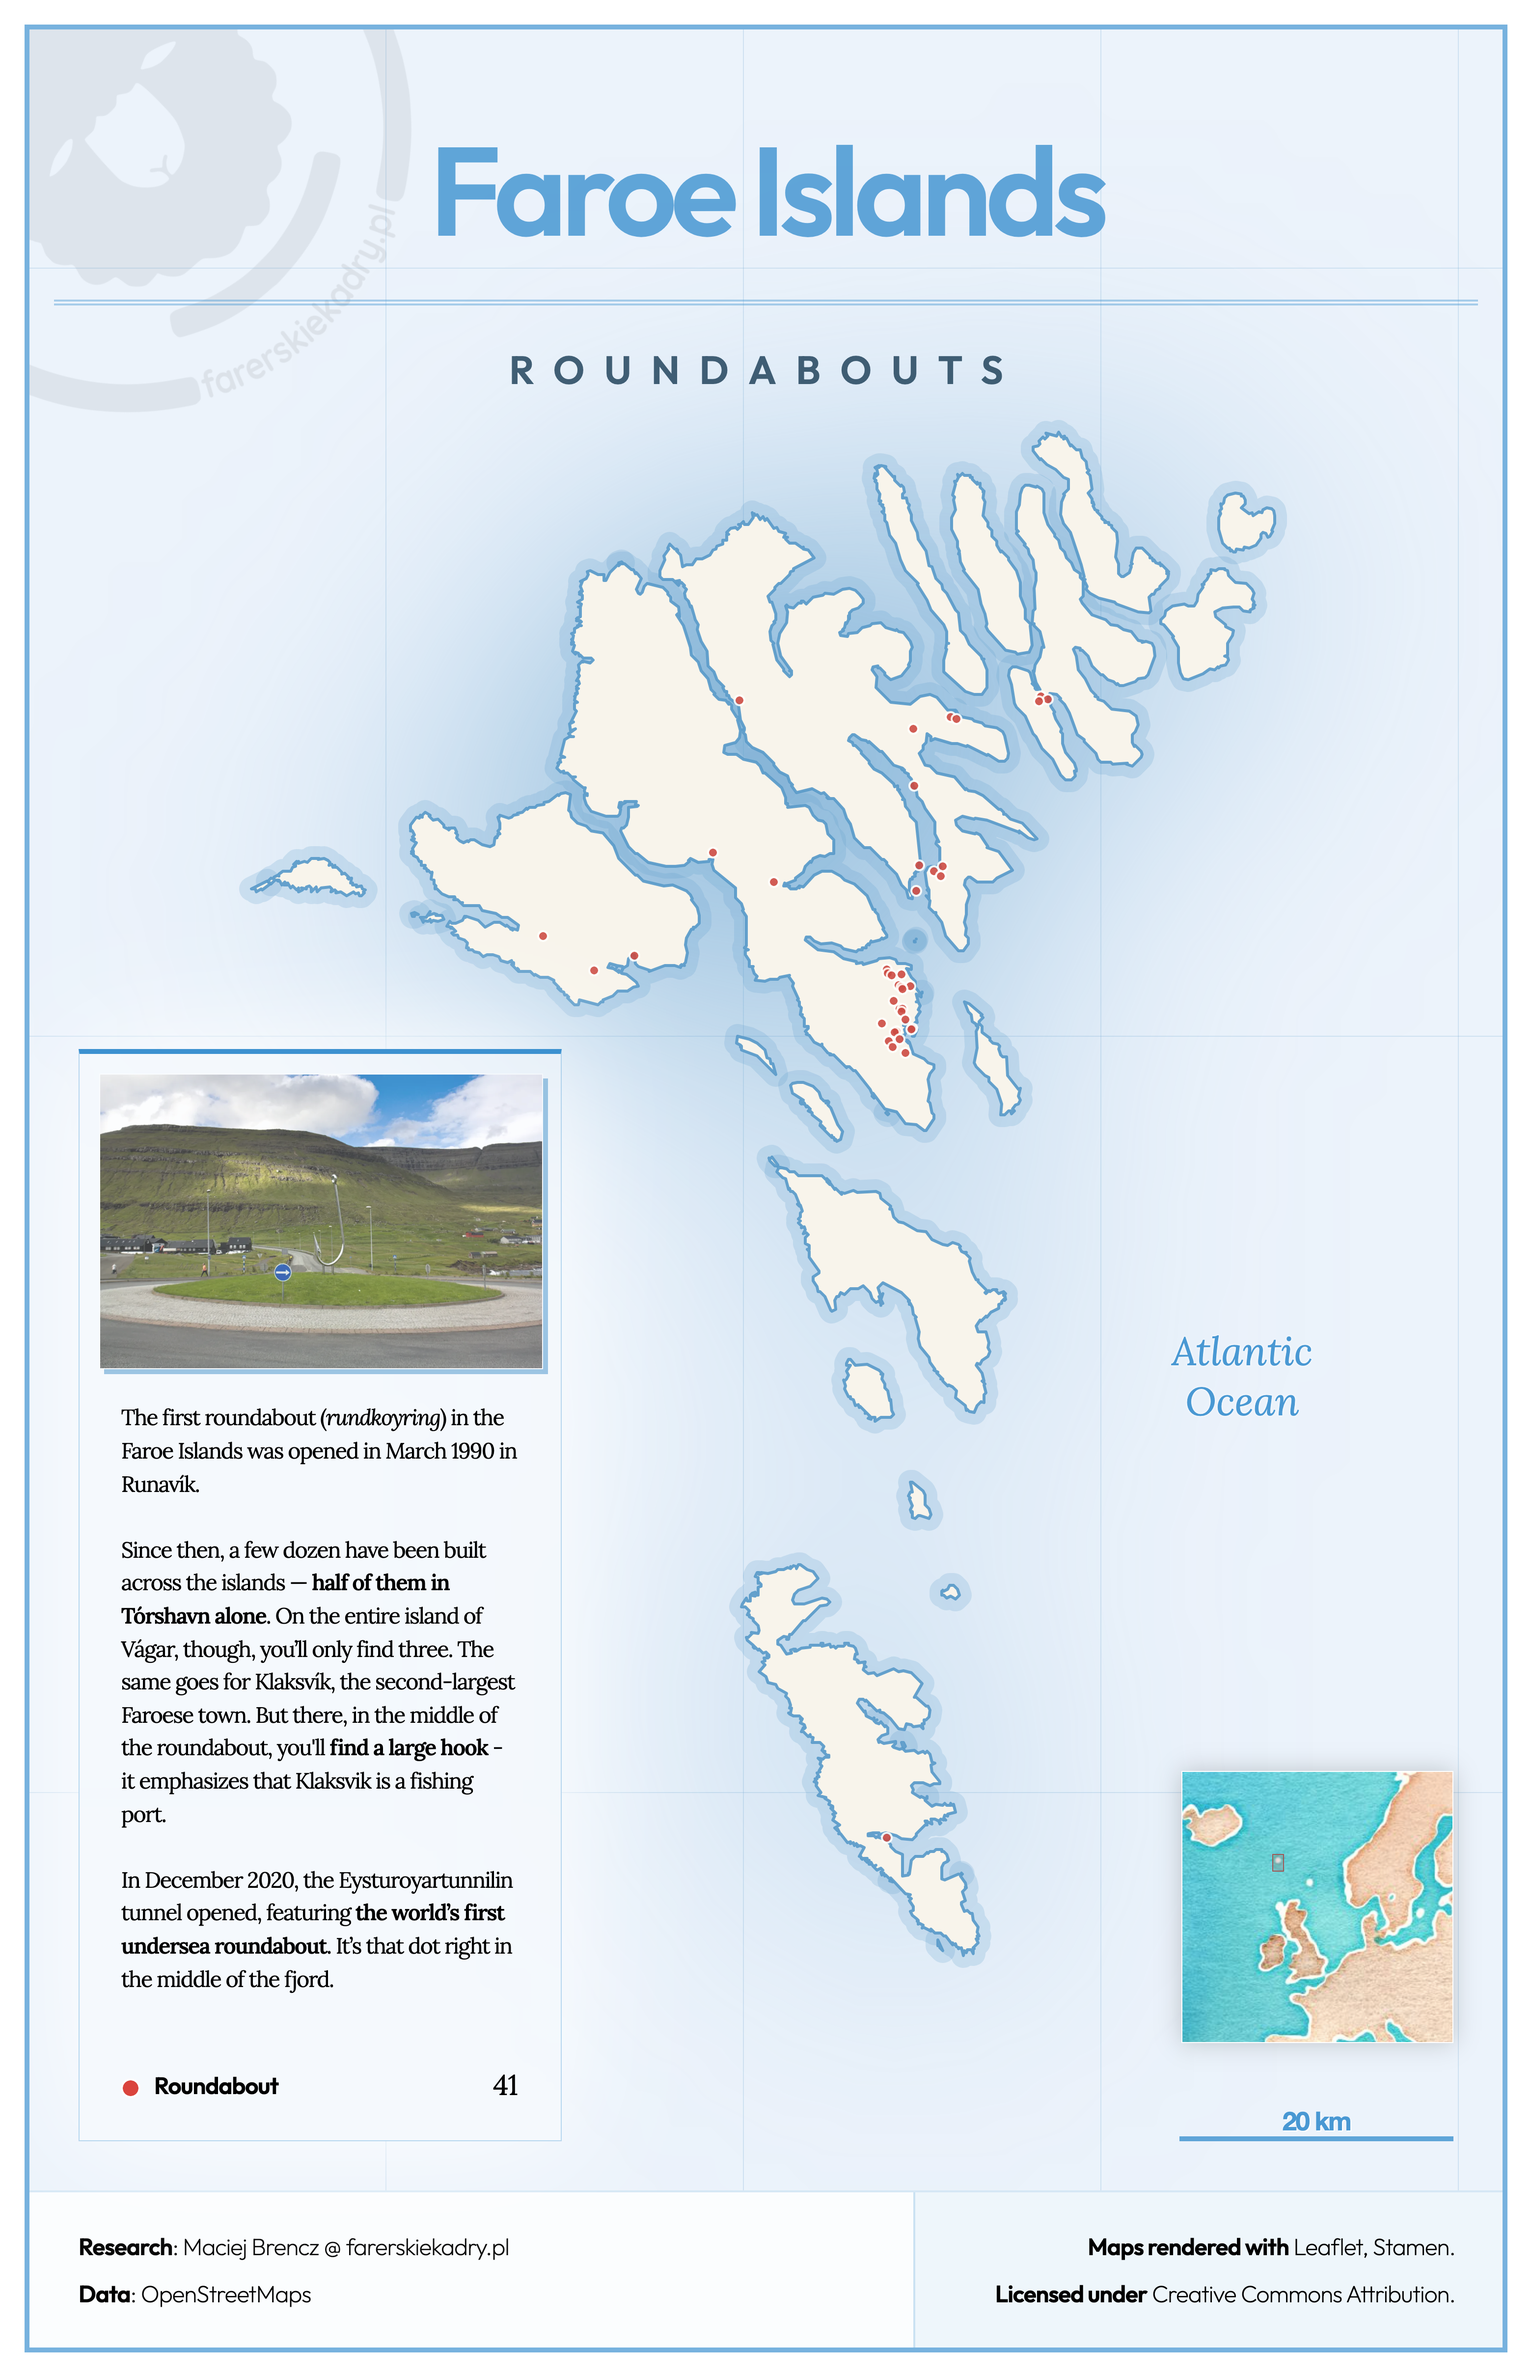
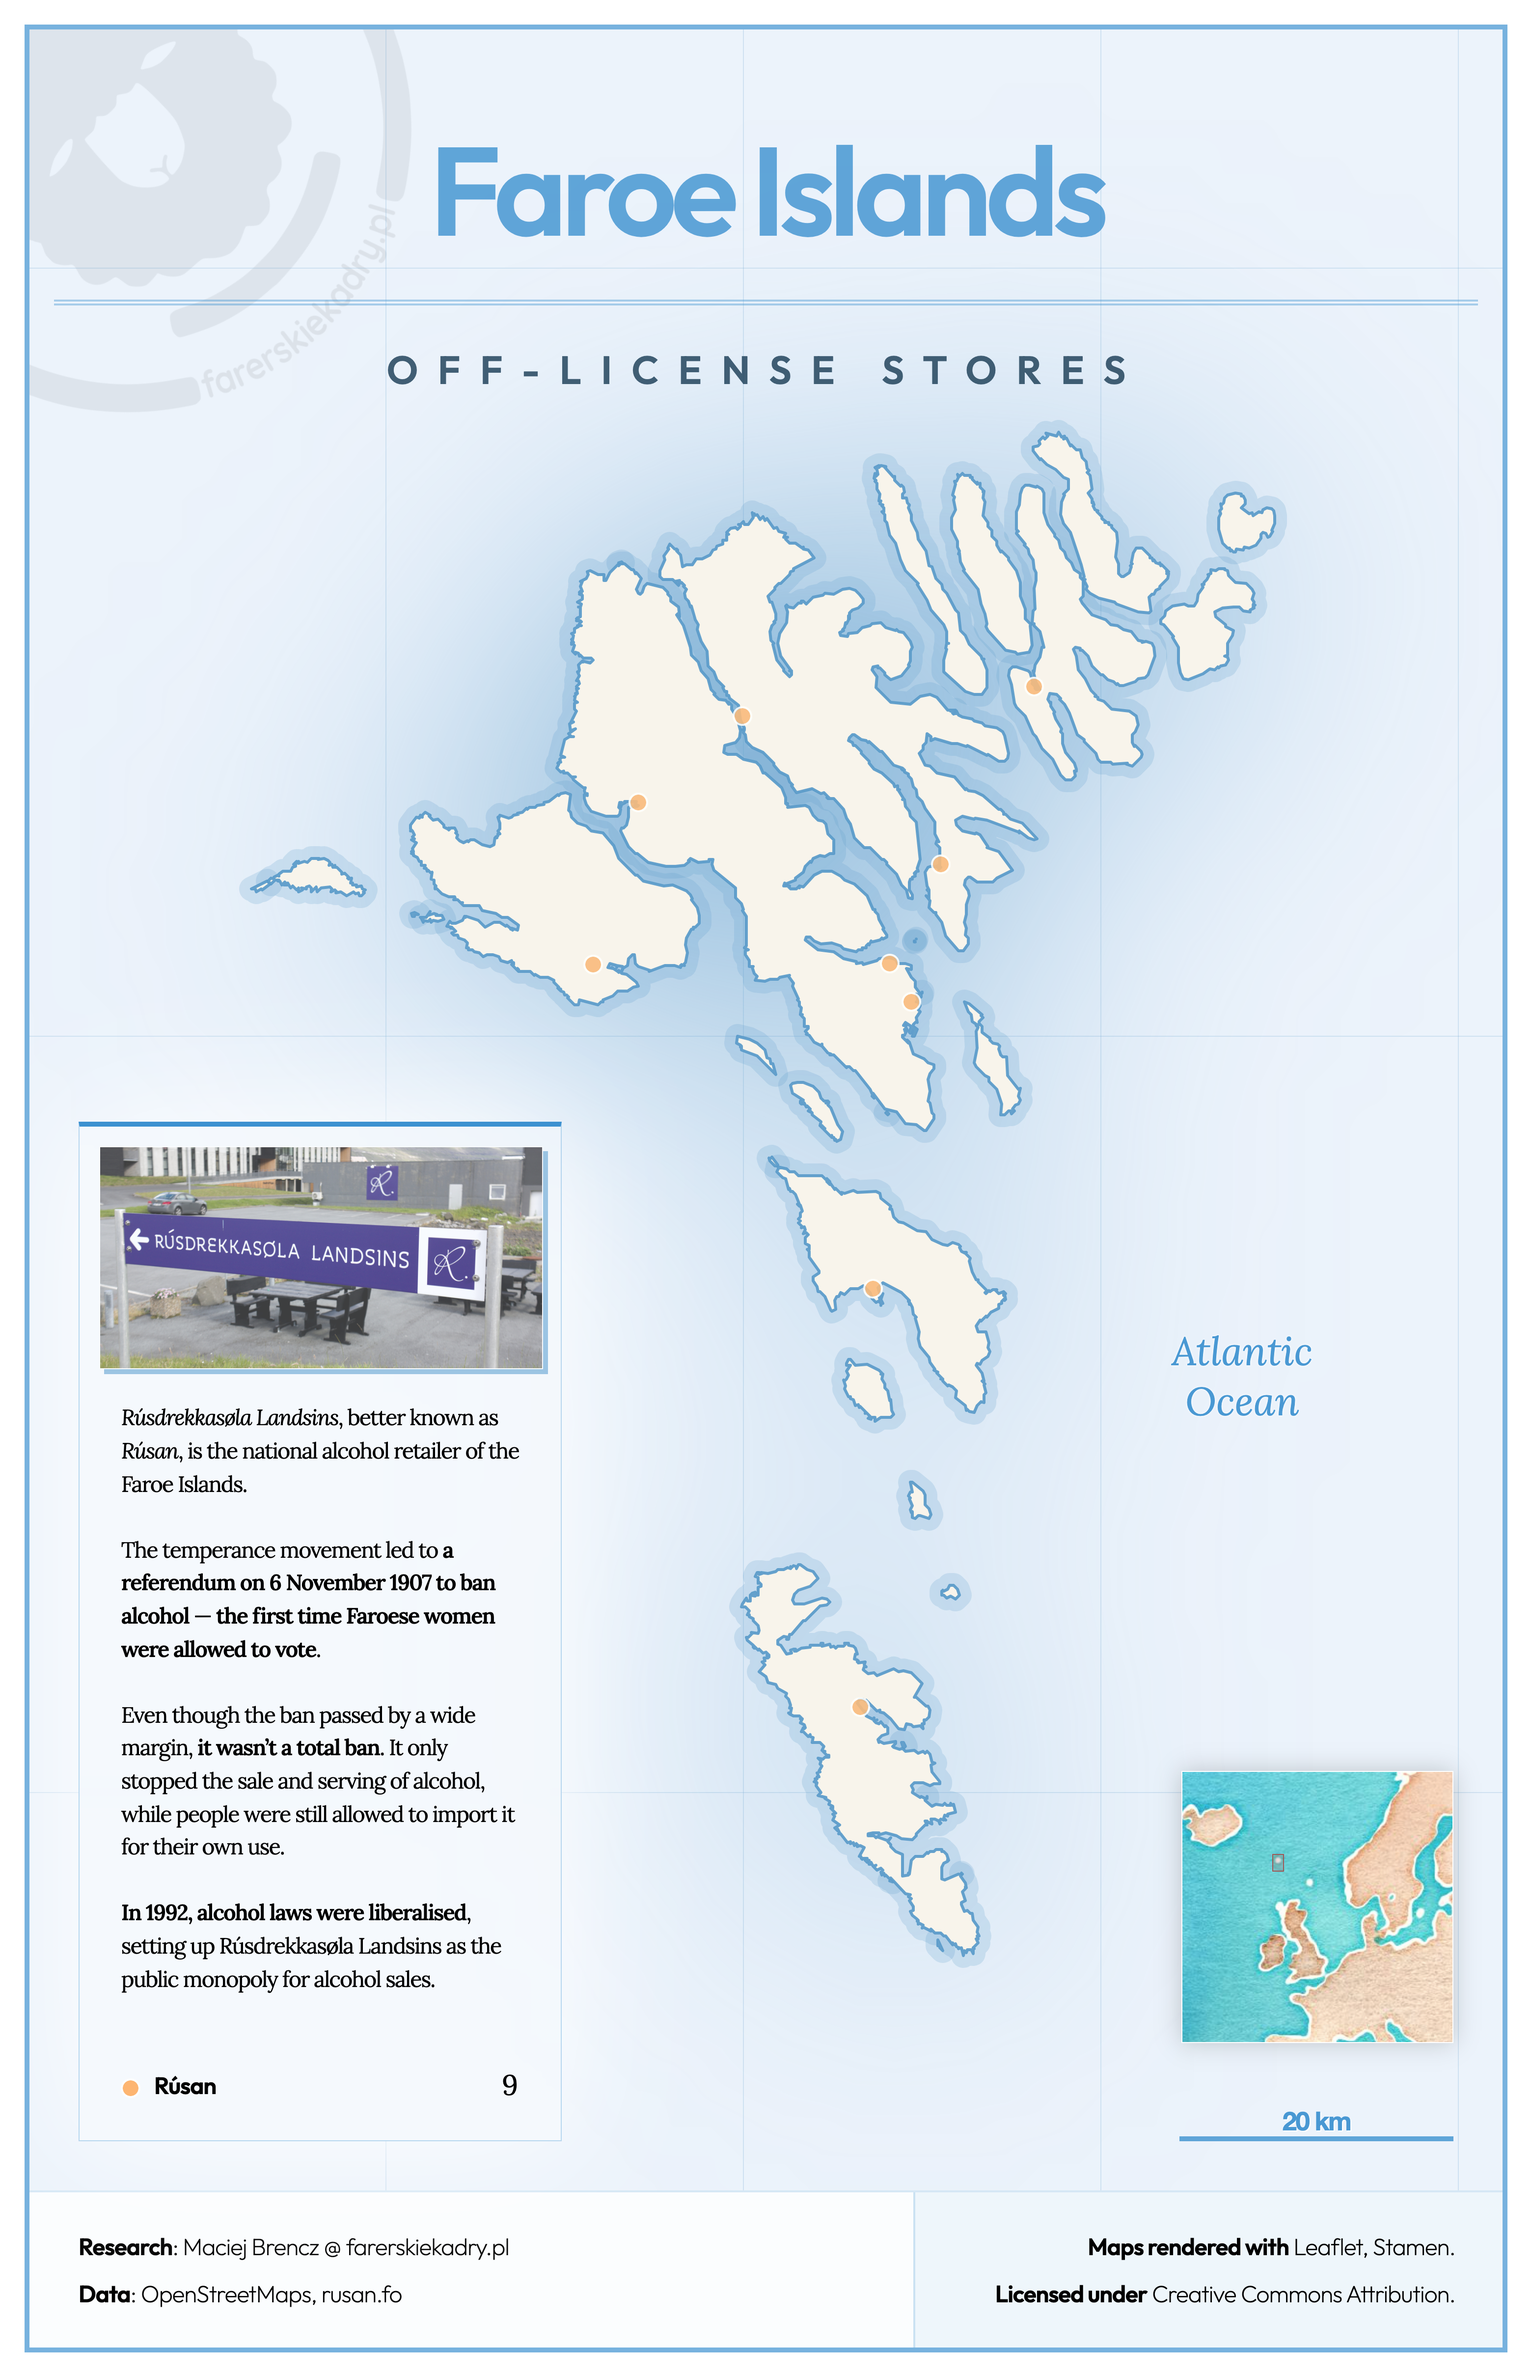
Faroe: Off-license stores

diff --git a/faroe.html b/faroe.html
@@ -24,25 +24,28 @@
 				<h1 lang="en">Faroe Islands</h1>
 				<h1 lang="pl">Wyspy Owcze</h1>
 
-				<h2 lang="en">Roundabouts</h2>
-				<h2 lang="pl">Ronda</h2>
+				<h2 lang="en">Off-license stores</h2>
+				<h2 lang="pl">Sklepy monopolowe</h2>
 
 				<legend>
-					<img src="https://i0.wp.com/farerskiekadry.pl/wp-content/uploads/2024/06/IMG_4117-scaled.jpg?w=1258&quality=89&ssl=1">
+					<img src="https://farerskiekadry.pl/wp-content/uploads/2026/01/Rusan_Klaksvik.jpg">
 					<p lang="en">
-						The first roundabout (<em>rundkoyring</em>) in the Faroe Islands was opened in March 1990 in Runavík.
+						<em>Rúsdrekkasøla Landsins</em>, better known as <em>Rúsan</em>, is the national alcohol retailer of the Faroe Islands.
 						<br><br>
-						Since then, a few dozen have been built across the islands — <strong>half of them in Tórshavn alone</strong>. On the entire island of Vágar, though, you’ll only find three. The same goes for Klaksvík, the second-largest Faroese town. But there, in the middle of the roundabout, you'll <strong>find a large hook</strong> - it emphasizes that Klaksvik is a fishing port.
+						The temperance movement led to <strong>a referendum on 6 November 1907 to ban alcohol</strong> — <strong>the first time Faroese women were allowed to vote</strong>.
 						<br><br>
-						In December 2020, the Eysturoyartunnilin tunnel opened, featuring <strong>the world’s first undersea roundabout</strong>. It’s that dot right in the middle of the fjord.
+						Even though the ban passed by a wide margin, <strong>it wasn’t a total ban</strong>. It only stopped the sale and serving of alcohol, while people were still allowed to import it for their own use.
+						<br><br>
+						<strong>In 1992, alcohol laws were liberalised</strong>, setting up Rúsdrekkasøla Landsins as the public monopoly for alcohol sales.
 					</p>
 					<p lang="pl">
-						Pierwsze farerskie rondo (<em>rundkoyring</em>) zostało otwarte w roku 1990 w Runavíku.
+						Alkohol na Wyspach Owczych kupić można w sieci państwowych sklepów monopolowych <em>Rúsdrekkasøla Landsins</em>, <strong>zwanych przez Farerów Rúsan</strong>.
 						<br><br>
-						Na współczesnych mapach drogowych znajdziemy ich już kilkadziesiąt – <strong>ponad połowę z nich w samym Tórshavn</strong>.
-						Cała wyspa Vágar ma ich <strong>tylko trzy</strong>. Podobnie jak drugie co do wielkości miasto na Wyspach - Klaksvík. Ale za to tam na środku ronda <strong>znajdziemy wielki hak</strong>.
+						Popularny na archipelagu <strong>ruch abstynencki doprowadził do referendum, które odbyło się w listopadzie 1907 roku </strong>. W głosowaniu tym <strong>po raz pierwszy w farerskiej historii udział wzięły kobiety</strong>.
 						<br><br>
-						W grudniu 2020 roku - wraz z otwarciem Eysturoyartunnilin - oddano do użytku <strong>pierwsze na świecie podmorskie rondo</strong>. Tak, to ta kropka pośrodku fiordu.
+						Jednak wprowadzona w kolejnym roku <strong>prohibicja nie była całkowita</strong>. Zakazano sprzedaży i wyszynku alkoholu, nadal jednak mocniejsze trunki można było sprowadzać indywidualnie.
+						<br><br>
+						<strong>Liberalizacja prawa z roku 1992</strong> ustanowiła państwowy monopol alkoholowy znany pod nazwą Rúsdrekkasøla Landsins.
 					</p>
 					<ul>
 						<!--<li><span class="marker black"></span><span lang="en">major towns</span><span lang="pl">główne miasta</span></li>-->
@@ -80,7 +83,7 @@
 						<strong lang="en">Research</strong><strong lang="pl">Opracowanie</strong>: Maciej Brencz @ farerskiekadry.pl
 					</p>
 					<p>
-						<strong lang="en">Data</strong><strong lang="pl">Dane</strong>: <!-- Landsverk, Umhvørvisstovan, Strandfaraskip Landsins, SEV, -->OpenStreetMaps<!--, trap.fo, WikiData,--><!--Visit Faroe Islands-->
+						<strong lang="en">Data</strong><strong lang="pl">Dane</strong>: <!-- Landsverk, Umhvørvisstovan, Strandfaraskip Landsins, SEV, -->OpenStreetMaps, rusan.fo<!--, WikiData,--><!--Visit Faroe Islands-->
 					</p>
 				</div>
 
@@ -181,7 +184,7 @@
 				**/
 
 				/**/
-				L.geoJSON(await fetchGeoJSON('/geojson/osm-junction-roundabout.json'), {
+				L.geoJSON(await fetchGeoJSON('/geojson/osm-shop-alcohol.json'), {
 					onEachFeature: feature => {
 						const geo = feature.geometry.coordinates;
 						console.log(feature.properties);
@@ -194,7 +197,7 @@
 						// // "denomination": "roman_catholic",
 						// const isCatholic = feature.properties.denomination === 'roman_catholic';
 
-						let color = 'red';
+						let color = 'orange';
 
 						// if (isCatholic) {
 						// 	color = 'orange'
@@ -203,7 +206,7 @@
 						// 	color = 'green';
 						// }
 
-						L.marker([geo[1], geo[0]], {icon: getIcon(color, '', true/*small*/), pane: `markers-${color}`})
+						L.marker([geo[1], geo[0]], {icon: getIcon(color, '', false/*small*/), pane: `markers-${color}`})
 							.addTo(map)
 							.bindPopup(feature.properties.name);
 
@@ -213,7 +216,7 @@
 					}
 				});
 
-				addLabel('red', 'Roundabout', 'Rondo', counts['red']);
+				addLabel('orange', 'Rúsan', 'Rúsan', counts['orange']);
 				/**/
 			});
 
